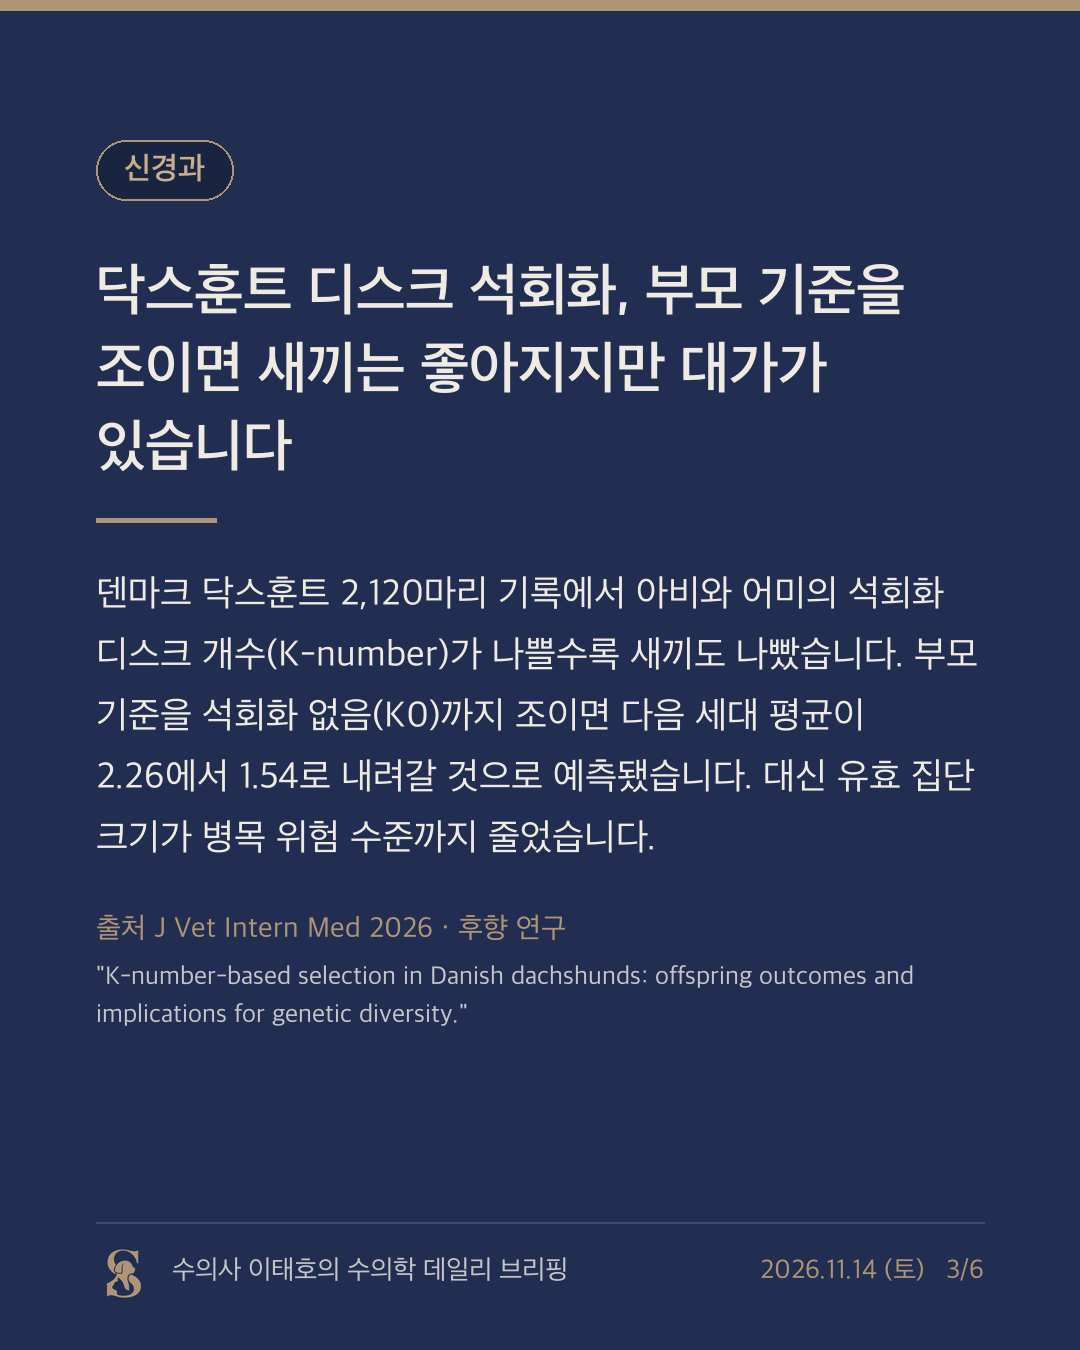
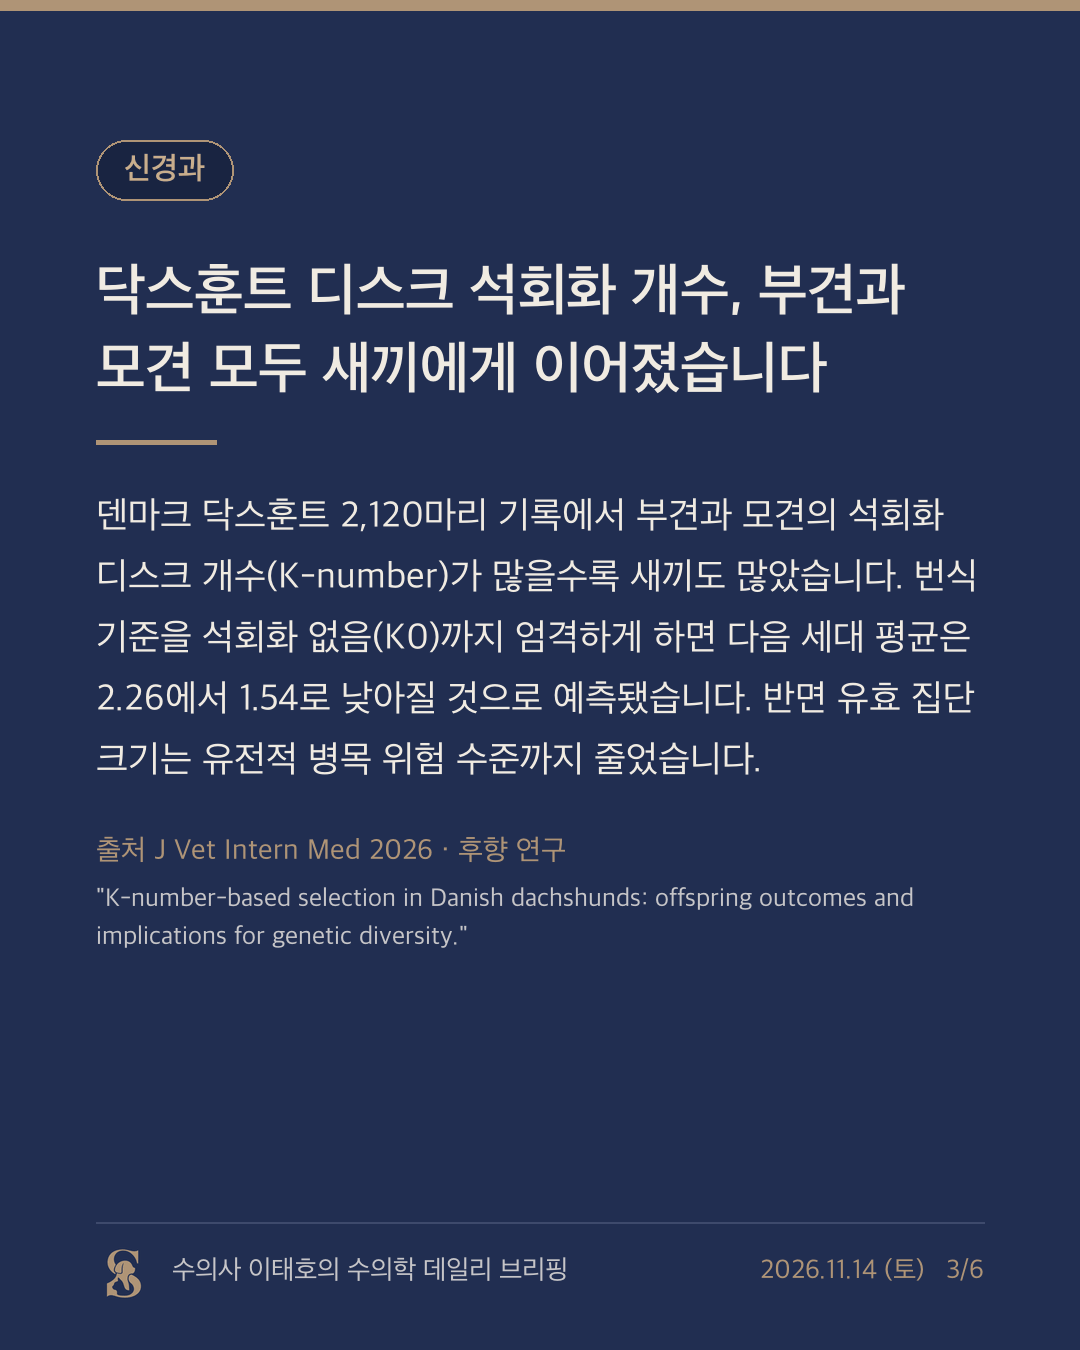
브리핑 2026-11-14 닥스훈트 항목 문장 수정

Changed region(s): [[0.0917, 0.1867, 0.9167, 0.7778]]

diff --git a/reports/2026-11-14.md b/reports/2026-11-14.md
@@ -19,11 +19,11 @@
 - **근거 수준** — 후향 연구(개 25마리)
 - **교신저자** — Marc Kent (Department of Small Animal Medicine and Surgery, College of Veterinary Medicine, University of Georgia) · 수의 정형·신경 10편(인용 163회)
 
-### 닥스훈트 디스크 석회화 개수(K-number)로 번식을 거르면 새끼는 좋아지지만, 너무 조이면 유전자 풀이 바닥납니다
+### 닥스훈트 디스크 석회화 개수(K-number), 부견과 모견 모두 새끼에게 이어졌습니다
 
-덴마크는 닥스훈트 번식견의 척추 방사선 사진에서 석회화된 디스크 개수(K-number, KN)를 세어 공개 데이터베이스에 올립니다. 미국 연구진이 여기 쌓인 2,120마리 기록으로 부모와 새끼의 KN을 맞대 봤습니다. 아비의 KN이 나쁠수록(OR 1.3, 95% CI 1.16–1.45), 어미의 KN이 나쁠수록(OR 1.3, 95% CI 1.13–1.40) 새끼의 KN도 나빴습니다. 부모 기준을 K ≤ 4에서 K0(석회화 없음)까지 조이면 다음 세대 평균 KN이 2.26에서 1.54로 내려갈 것으로 예측됐습니다. 대신 번식에 참여하는 유효 집단 크기가 급격히 줄어, 스탠더드 와이어헤어드는 K ≤ 4 기준에서 179였던 값이 K0 기준에서 52로 떨어져 유전적 병목 위험 구간에 들어갔습니다.
+덴마크는 닥스훈트 번식견의 척추 방사선 사진에서 석회화된 디스크 개수(K-number, KN)를 세어 공개 데이터베이스에 올립니다. 미국 연구진이 이 기록 2,120마리 분량으로 부모견과 새끼의 KN을 비교했습니다. 부견의 KN이 높을수록(OR 1.3, 95% CI 1.16–1.45), 모견의 KN이 높을수록(OR 1.3, 95% CI 1.13–1.40) 새끼의 KN도 높았습니다. 번식 허용 기준을 K ≤ 4에서 K0(석회화 없음)까지 엄격하게 하면 다음 세대 평균 KN은 2.26에서 1.54로 낮아질 것으로 예측됐습니다. 반면 번식에 참여하는 유효 집단 크기는 크게 줄었습니다. 스탠더드 와이어헤어드는 K ≤ 4 기준에서 179였던 값이 K0 기준에서는 52로, 유전적 병목 위험 수준까지 내려갔습니다.
 
-**임상적 의미** — 디스크 석회화가 아비와 어미 양쪽에서 물려 내려간다는 것을 대규모 혈통 자료로 확인한 결과입니다. 닥스훈트 브리더나 번식을 고민하는 보호자가 상담을 청하면, 부모견의 척추 방사선 사진에서 석회화 디스크 개수를 세어 보는 것이 근거 있는 첫 단계라고 말할 수 있습니다. 다만 석회화가 전혀 없는 개체만 남기는 식의 극단적 선별은 번식 집단의 유전적 다양성을 병목 수준까지 깎아 먹는다는 것이 이 연구의 또 다른 결론입니다.
+**임상적 의미** — 디스크 석회화가 부견과 모견 양쪽에서 유전된다는 것을 대규모 등록 자료로 확인한 연구입니다. 닥스훈트 번식을 상담할 때 부모견의 척추 방사선 사진으로 석회화 디스크 개수를 확인하도록 권할 근거가 됩니다. 다만 석회화가 없는 개체만 번식에 쓰면 유전적 다양성이 병목 위험 수준까지 줄어든다는 점도 이 연구가 함께 보여 줍니다.
 
 - **출처** — Journal of Veterinary Internal Medicine, 2026 · [DOI 10.1093/jvimsj/aalag291](https://doi.org/10.1093/jvimsj/aalag291)
 - **원제** — *K-number-based selection in Danish dachshunds: offspring outcomes and implications for genetic diversity.*
